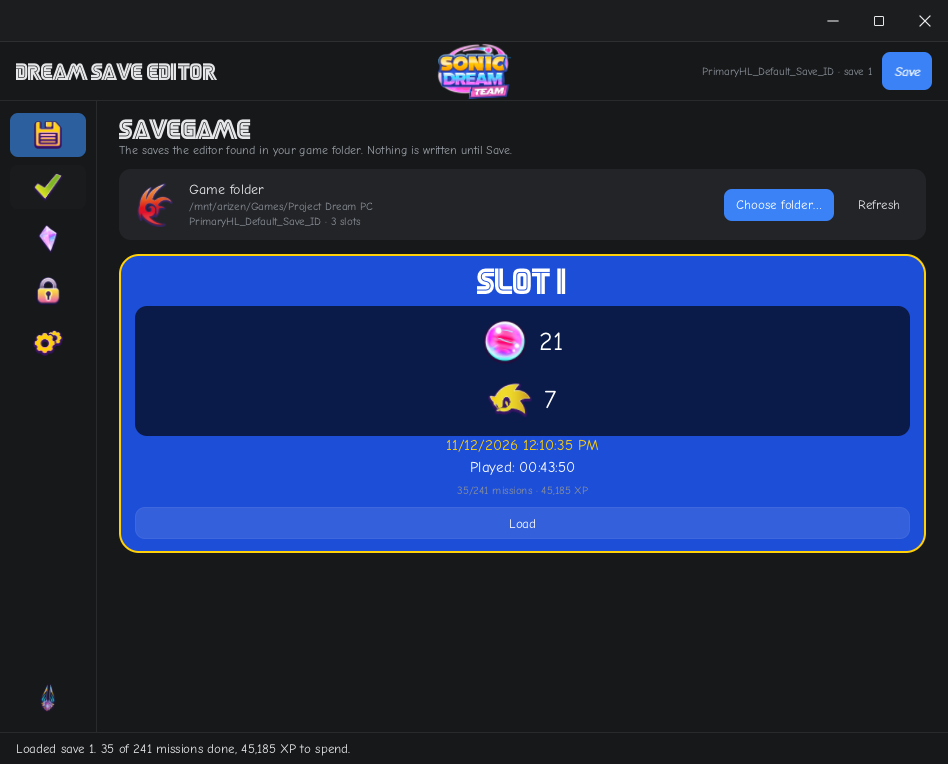
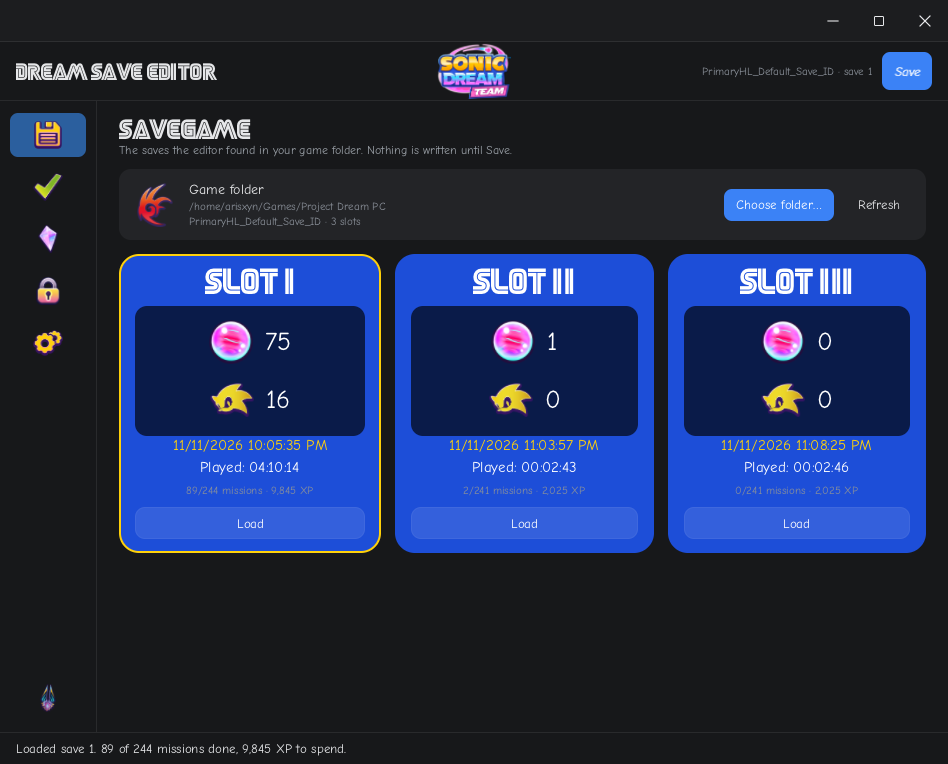
fix: a deleted save is not a slot
The game does not remove a slot's entry when you delete the save. It
leaves the id and blanks the value, so get() still returns Some("") and
the file claimed three slots while only one card could be drawn.

A slot now needs a non-empty value. That also keeps the count honest for
anything else reading slots(), and the JSON page still shows the blanked
entries as they really are.

Screenshots recaptured from a file with three live slots.

diff --git a/crates/sdt-save/src/lib.rs b/crates/sdt-save/src/lib.rs
@@ -71,9 +71,16 @@ impl SaveFile {
 
     /// The slots this file holds, in slot order: the game allows three, and a
     /// file written before more than one existed holds only the first.
+    ///
+    /// A deleted save does not lose its entry: the game leaves the id in place
+    /// and blanks the value. An empty value is not a slot.
     pub fn slots(&self) -> Vec<usize> {
         (0..container::SLOT_IDS.len())
-            .filter(|index| self.container.get(container::SLOT_IDS[*index]).is_some())
+            .filter(|index| {
+                self.container
+                    .get(container::SLOT_IDS[*index])
+                    .is_some_and(|value| !value.trim().is_empty())
+            })
             .collect()
     }
 
@@ -208,6 +215,23 @@ mod tests {
         assert_eq!(current.container.get(container::property::GAME_VERSION), Some("1.10.2"));
 
         fs::remove_dir_all(&dir).unwrap();
+    }
+
+    #[test]
+    fn a_blank_slot_is_not_a_slot() {
+        let container = Container::new(
+            0,
+            vec![
+                Entry::new(container::property::SAVE_DATA_GAME, r#"{"m_challenges":{}}"#),
+                // Deleting a save in the game leaves the id and blanks the value.
+                Entry::new(container::SLOT_IDS[1], ""),
+                Entry::new(container::SLOT_IDS[2], "  "),
+            ],
+        );
+        let file = SaveFile { container };
+
+        assert_eq!(file.slots(), vec![0]);
+        assert_eq!(file.unrecognised_slots(), Vec::<u32>::new());
     }
 
     #[test]
